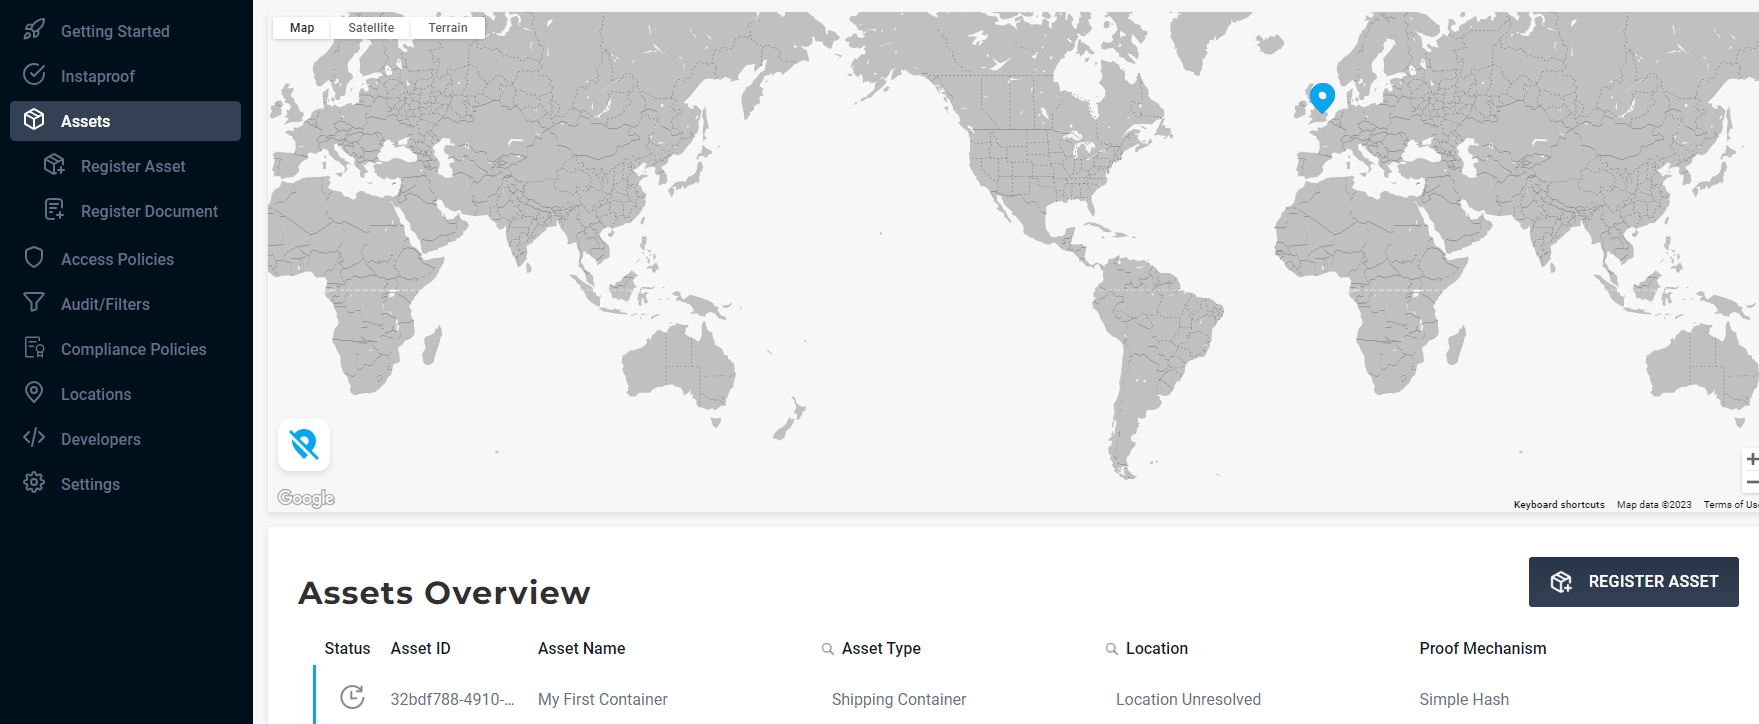
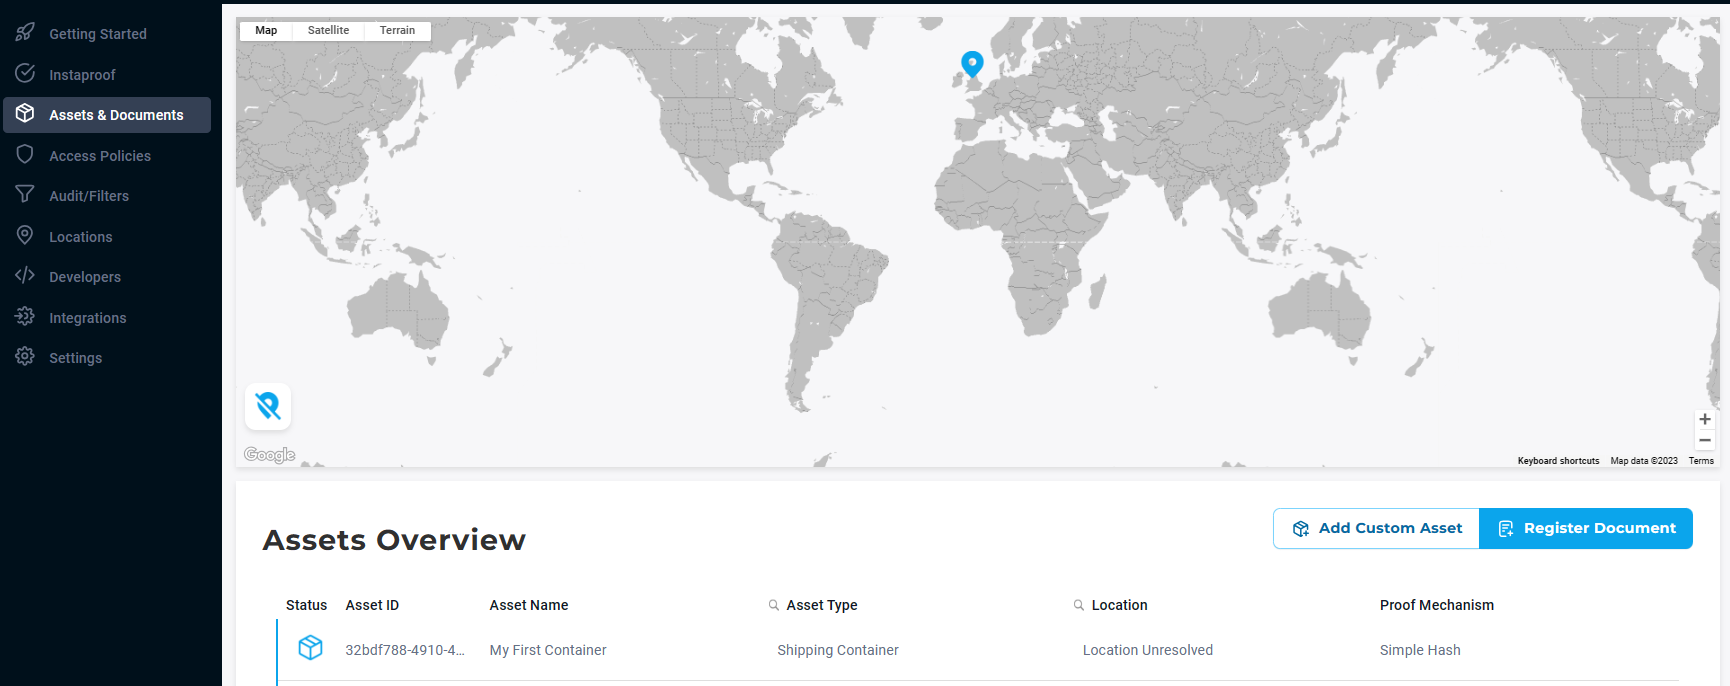
updated asset creation screenshots

diff --git a/content/platform/overview/creating-an-asset/index.md b/content/platform/overview/creating-an-asset/index.md
@@ -39,7 +39,7 @@ Check out our [Core Concepts](/platform/overview/core-concepts/#assets) for more
 1. Create your Asset
 {{< tabs name="add_asset" >}}
 {{{< tab name="UI" >}}
-Using the sidebar, select `Register Asset`.
+Using the sidebar, select `Assets & Documents` and then `Add Custom Asset`
 {{< img src="AssetRegister.png" alt="Rectangle" caption="<em>Adding an Asset</em>" class="border-0" >}}
 {{< /tab >}}
 {{< tab name="YAML" >}}
@@ -239,7 +239,7 @@ This example also adds a location to our Asset. To find out more about locations
 1. Complete your Asset creation
 {{< tabs name="finish_create_asset" >}}
 {{{< tab name="UI" >}}
-Click `Register Asset`.
+Click `Register Asset`
 {{< img src="AssetCreate.png" alt="Rectangle" caption="<em>Create the Asset</em>" class="border-0" >}}
 {{< /tab >}}
 {{< tab name="YAML" >}}
@@ -271,7 +271,7 @@ curl -v -X POST \
 1. View your Assets
 {{< tabs name="view_all_assets" >}}
 {{{< tab name="UI" >}}
-Navigate to 'Assets' to see your Asset in the UI.
+Navigate to 'Assets & Documents' to see your Asset in the UI.
 {{< img src="Asset.png" alt="Rectangle" caption="<em>Managing Assets</em>" class="border-0" >}}
 {{< /tab >}}
 {{< tab name="YAML" >}}
